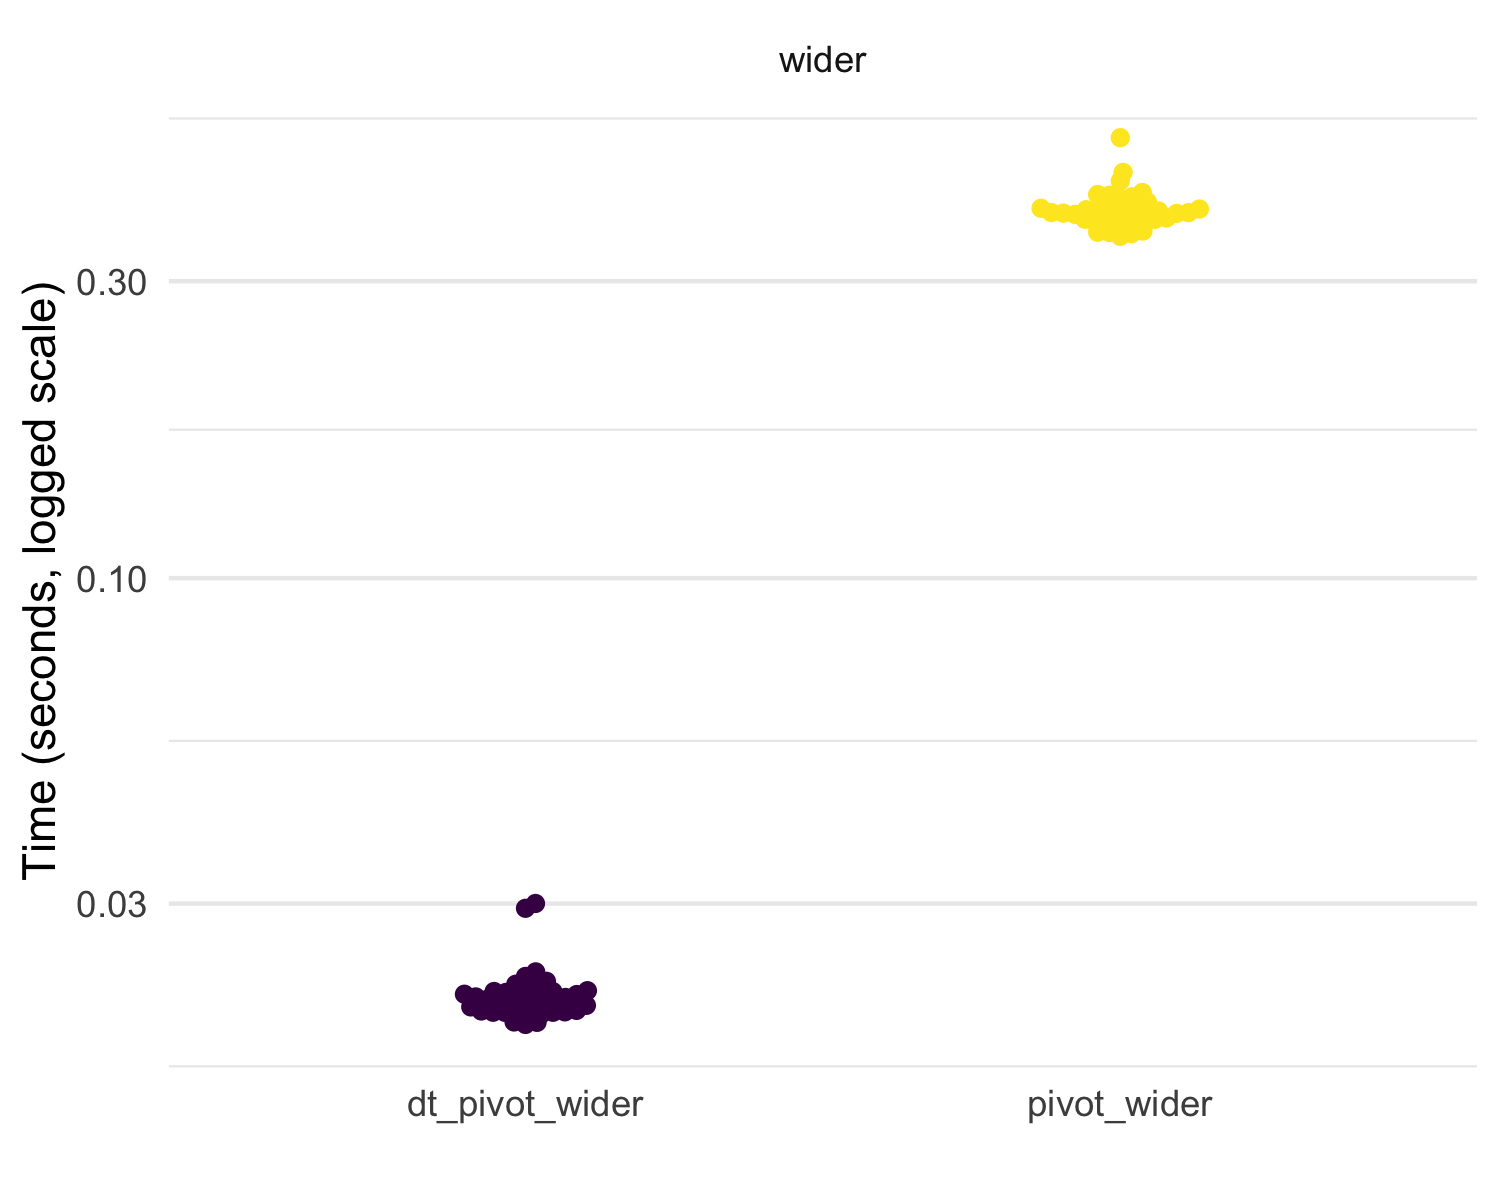
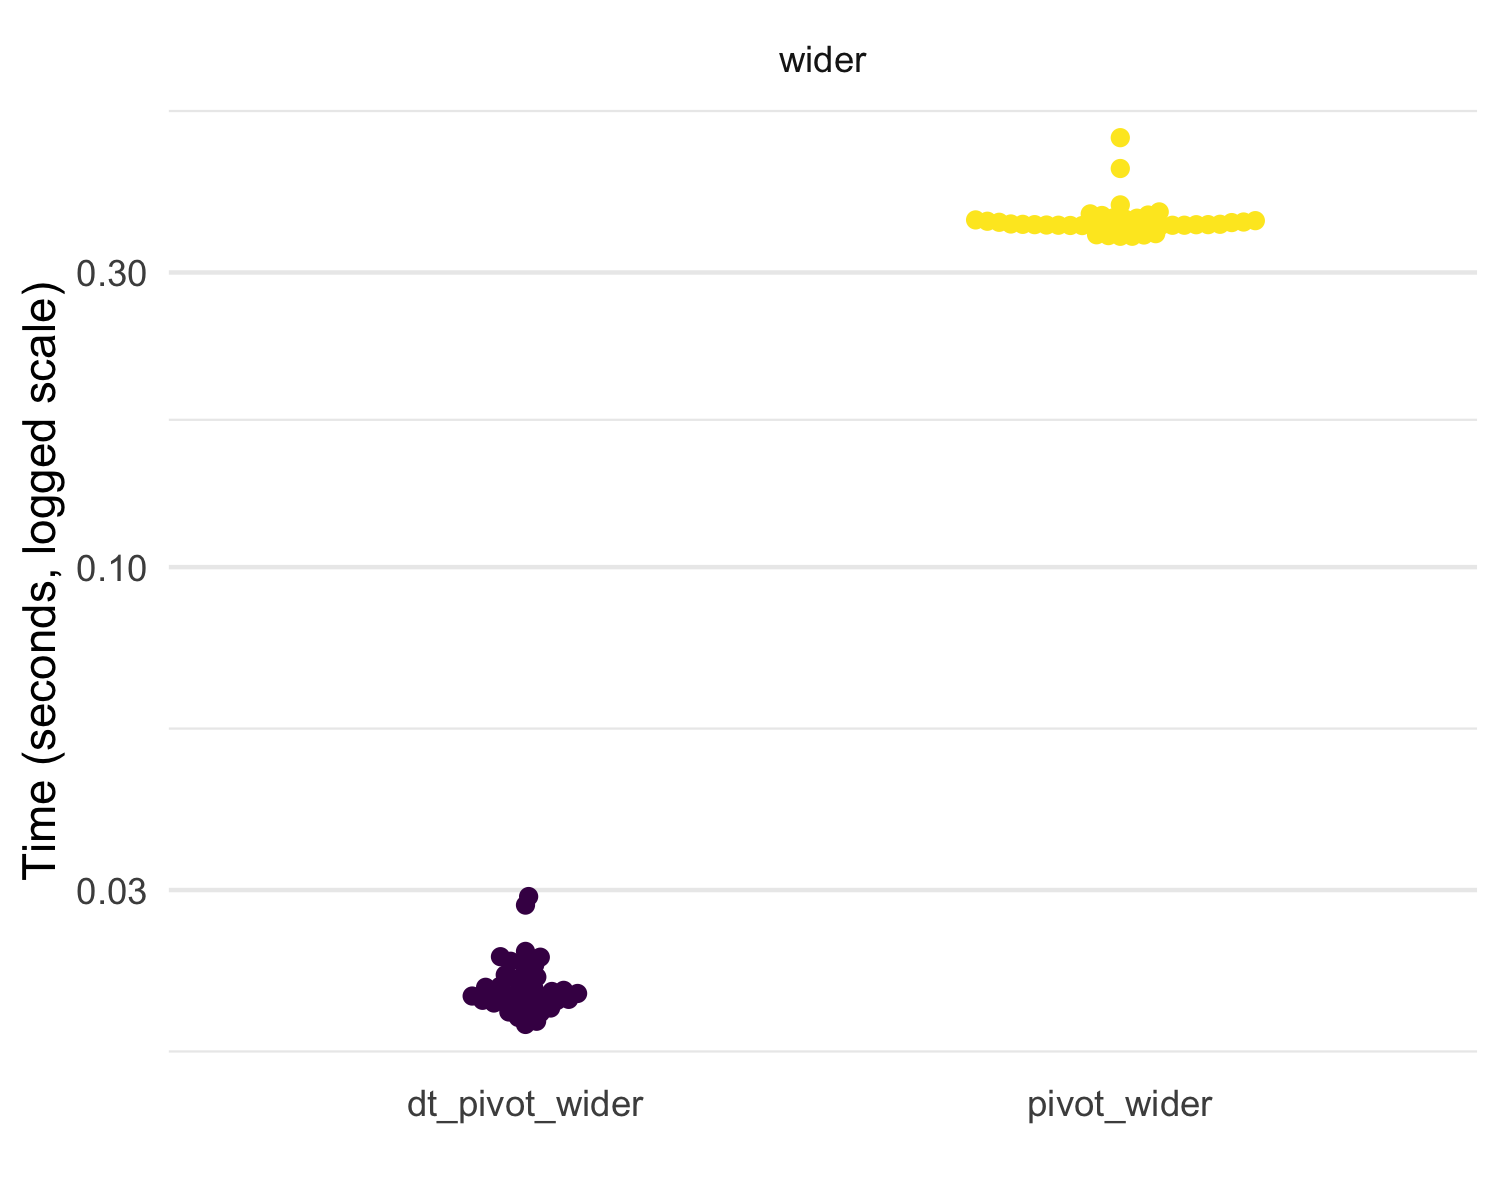
updated README with new version of dt_unnest
Turns out it is faster and more efficient than before

Changed region(s): [[0.0307, 0.1233, 0.9813, 0.2467], [0.0307, 0.74, 0.9813, 0.8633], [0.0307, 0.4625, 0.9813, 0.4933]]

diff --git a/README.md b/README.md
@@ -202,23 +202,20 @@ dt_hoist(dt, nested1, nested2)
 Speed comparisons (similar to those shown in the preprint) are
 highlighted below. Notably, the timings are without the `nested1` and
 `nested2` columns of the original `dt` object from above. Also, all
-`dplyr` and `tidyr` functions use a `tbl` version of the `dt`
-    table.
-
-    #> The following columns were dropped because they are list-columns (but not being hoisted): result, memory, time, gc
+`dplyr` and `tidyr` functions use a `tbl` version of the `dt` table.
 
 <img src="man/figures/README-unnamed-chunk-7-1.png" width="70%" />
 
     #> # A tibble: 2 x 3
     #>   expression   median mem_alloc
     #>   <chr>      <bch:tm> <bch:byt>
-    #> 1 dt_nest      3.27ms    2.88MB
-    #> 2 group_nest      5ms    2.54MB
+    #> 1 dt_nest      3.38ms    2.88MB
+    #> 2 group_nest   5.03ms    2.54MB
     #> # A tibble: 2 x 3
     #>   expression   median mem_alloc
     #>   <chr>      <bch:tm> <bch:byt>
-    #> 1 dt_unnest    5.32ms    6.25MB
-    #> 2 unnest      12.72ms    8.47MB
+    #> 1 dt_unnest    4.83ms    5.49MB
+    #> 2 unnest       12.7ms    8.47MB
 
 ### If Else
 
@@ -267,9 +264,9 @@ built on `data.table::fifelse()`.
     #> # A tibble: 3 x 3
     #>   expression     median mem_alloc
     #>   <chr>        <bch:tm> <bch:byt>
-    #> 1 case_when     133.2ms   148.8MB
-    #> 2 dt_case_when   34.4ms    34.3MB
-    #> 3 fifelse        34.5ms    34.3MB
+    #> 1 case_when     131.3ms   148.8MB
+    #> 2 dt_case_when     36ms    34.3MB
+    #> 3 fifelse        35.9ms    34.3MB
 
 ## Fill
 
@@ -377,7 +374,7 @@ marks3 <-
     #> # A tibble: 2 x 3
     #>   expression                                    median mem_alloc
     #>   <bch:expr>                                  <bch:tm> <bch:byt>
-    #> 1 tidyr::fill(dplyr::group_by(df3, id), x, y)   65.6ms    30.7MB
+    #> 1 tidyr::fill(dplyr::group_by(df3, id), x, y)   65.4ms    30.7MB
     #> 2 tidyfast::dt_fill(dt3, x, y, id = list(id))   24.7ms    29.1MB
 
 ## Separate
@@ -420,9 +417,9 @@ than `tidyr::separate()`.
     #> # A tibble: 3 x 3
     #>   expression            median mem_alloc
     #>   <chr>               <bch:tm> <bch:byt>
-    #> 1 separate               370ms    11.6MB
-    #> 2 dt_separate            123ms    30.6MB
-    #> 3 dt_separate-mutable    112ms    26.7MB
+    #> 1 separate               366ms    11.6MB
+    #> 2 dt_separate            126ms    30.6MB
+    #> 3 dt_separate-mutable    109ms    26.7MB
 
 ## Count and Uncount
 
@@ -585,10 +582,10 @@ efficient.
     #> # A tibble: 4 x 3
     #>   expression        median mem_alloc
     #>   <chr>           <bch:tm> <bch:byt>
-    #> 1 dt_pivot_longer   1.04ms  993.47KB
-    #> 2 pivot_longer      6.78ms    2.63MB
-    #> 3 dt_pivot_wider      21ms     2.5MB
-    #> 4 pivot_wider     386.32ms    2.43MB
+    #> 1 dt_pivot_longer      1ms  993.47KB
+    #> 2 pivot_longer      6.48ms    2.63MB
+    #> 3 dt_pivot_wider   20.38ms     2.5MB
+    #> 4 pivot_wider     358.57ms    2.43MB
 
 ## Notes
 
